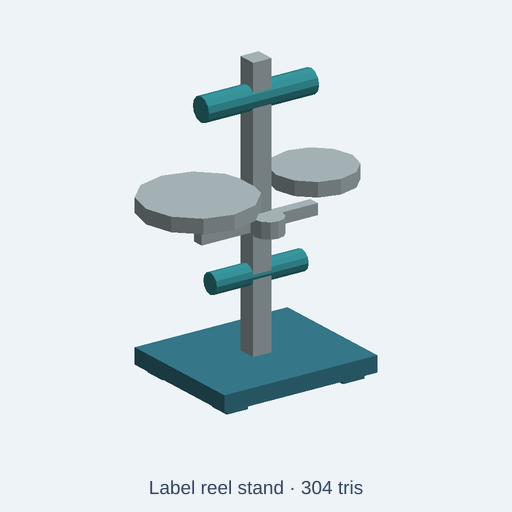
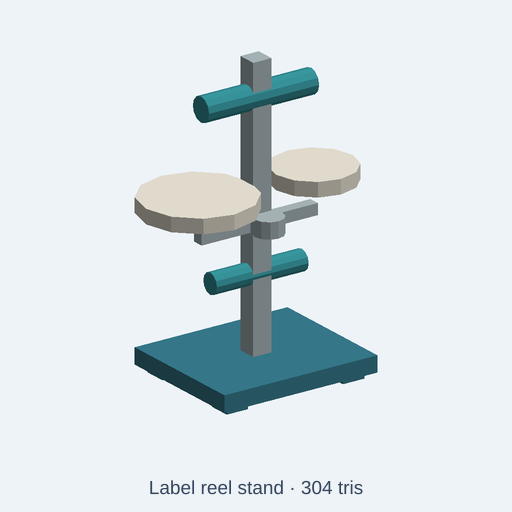
fix(catalog): render the label reel stand's reels as paper label stock
The unwind and rewind reels of the label reel stand carry wound label
web and spent liner. Their part names matched no finish rule, so both
rendered as grey stainless discs. Add a labelStock colour control
(#efe9da, "Paper label stock", the same default as the labelers) and
route both reels to it; sanitaryLine and legacyPlant set it. Rollers,
upright, tension arm and base keep their finishes.

Geometry, part names and the triangle count (304 / 2,200) are
unchanged. The new GLB colour test fails on the old source and passes
after the fix.

Preview audit ledger (beverage-bottling-line, no open issue/PR target):
- label-reel-stand: reels stainless, should be paper -> fixed here.
- slip-sheet-dispenser: vacuum cups render stainless; minor, not fixed.
- shrink-bundle-wrapper: film reel in polymer finish; plausible.
- sleeve-shrink-tunnel: stainless tunnel, painted legs; plausible.
- stretch-wrapper: film, pallet, cases and mast distinct; plausible.

Changed region(s): [[0.25, 0.3125, 0.5312, 0.4688], [0.5312, 0.2812, 0.7188, 0.4062]]

diff --git a/tests/integration/catalog/labelReelStandReelMaterial.test.ts b/tests/integration/catalog/labelReelStandReelMaterial.test.ts
@@ -1,0 +1,61 @@
+// SPDX-License-Identifier: MIT
+// Copyright (c) 2026 Andrii Shylenko and kernelCAD contributors
+
+import { resolve } from 'node:path';
+import { NodeIO } from '@gltf-transform/core';
+import { beforeAll, describe, expect, it } from 'vitest';
+import { buildCatalogAssetWithGlb } from '../../../src/agent/catalog/buildCatalog';
+import { initOcct } from '../../../src/kernel/backends/occt/occtBackend';
+
+const repoRoot = resolve(import.meta.dirname, '../../..');
+const source = 'catalog/kits/beverage-bottling-line/label-reel-stand.kcad.ts';
+
+beforeAll(async () => {
+  await initOcct();
+}, 120_000);
+
+describe('beverage-bottling-line/label-reel-stand materials', () => {
+  it('renders the unwind and rewind reels as paper label stock, not stainless steel', async () => {
+    const { asset, glb } = await buildCatalogAssetWithGlb(repoRoot, source);
+
+    expect(asset.stats.triangles).toBeLessThanOrEqual(asset.triangleBudget);
+    expect(asset.params.filter((param) => param.type === 'color').map((param) => param.name)).toEqual([
+      'stainlessSteel', 'powderCoat', 'foodPolymer', 'labelStock',
+    ]);
+    expect(Object.keys(asset.presets)).toEqual(['sanitaryLine', 'legacyPlant']);
+
+    const document = await new NodeIO().readBinary(glb);
+    const nodes = document.getRoot().listNodes();
+    const colorsFor = (name: string) => {
+      const node = nodes.find((candidate) => candidate.getName() === name);
+      return node?.getMesh()?.listPrimitives().flatMap((primitive) => {
+        const vertexColors = primitive.getAttribute('COLOR_0');
+        if (vertexColors !== null) {
+          return Array.from({ length: vertexColors.getCount() }, (_, index) => {
+            const color = vertexColors.getElement(index, []);
+            return color.slice(0, 3).map((channel) =>
+              channel <= 0.0031308 ? 12.92 * channel : 1.055 * channel ** (1 / 2.4) - 0.055,
+            );
+          });
+        }
+        const material = primitive.getMaterial();
+        return material === null ? [] : [material.getBaseColorFactor().slice(0, 3)];
+      }) ?? [];
+    };
+    const matches = (hex: string) => {
+      const expected = [1, 3, 5].map((shift) => parseInt(hex.slice(shift, shift + 2), 16) / 255);
+      return (color: number[]) => expected.every((channel, index) =>
+        Math.abs(channel - color[index]!) < 0.015,
+      );
+    };
+
+    for (const roll of ['unwind-reel', 'rewind-reel']) {
+      const colors = colorsFor(roll);
+      expect(colors.length).toBeGreaterThan(0);
+      expect(colors.every(matches('#efe9da')), `${roll} should be paper label stock`).toBe(true);
+    }
+    const roller = colorsFor('top-web-roller');
+    expect(roller.length).toBeGreaterThan(0);
+    expect(roller.every(matches('#3999a1')), 'web roller should stay food-grade polymer').toBe(true);
+  }, 120_000);
+});

diff --git a/catalog/kits/beverage-bottling-line/label-reel-stand.kcad.ts b/catalog/kits/beverage-bottling-line/label-reel-stand.kcad.ts
@@ -5,7 +5,7 @@ meta({
   name: "label-reel-stand",
   license: 'CC0-1.0',
   title: "Label reel stand",
-  description: "Freestanding unwind and rewind reels with a tensioning roller and web guide. Knobs: overall scale and color controls for stainless steel, powder-coated steel, and food-grade polymer.",
+  description: "Freestanding unwind and rewind reels with a tensioning roller and web guide. Knobs: overall scale and color controls for stainless steel, powder-coated steel, food-grade polymer, and paper label stock.",
   tags: ['beverage bottling', 'packaging line', 'food manufacturing', 'low poly', 'CC0'],
   kit: 'beverage-bottling-line',
   category: 'prop',
@@ -18,17 +18,20 @@ const scale = param('scale', 1, { label: 'Overall scale', min: 0.65, max: 1.3, s
 const stainlessSteel = param('stainlessSteel', '#aebdc1', { label: 'Stainless steel' });
 const powderCoat = param('powderCoat', '#397e91', { label: 'Powder-coated steel' });
 const foodPolymer = param('foodPolymer', '#3999a1', { label: 'Food-grade polymer' });
+const labelStock = param('labelStock', '#efe9da', { label: 'Paper label stock' });
 
 presets({
   sanitaryLine: {
     stainlessSteel: '#d2dfe1',
     powderCoat: '#4b95a4',
     foodPolymer: '#2c828c',
+    labelStock: '#f6f2e8',
   },
   legacyPlant: {
     stainlessSteel: '#858f91',
     powderCoat: '#315b70',
     foodPolymer: '#286c75',
+    labelStock: '#ddd4bd',
   },
 });
 const boxPart = (x:number,y:number,z:number,w:number,d:number,h:number) => box(w,d,h,true).translate(x,y,z+h/2).scale(scale);
@@ -38,6 +41,8 @@ const xCylinderPart = (x:number,y:number,z:number,length:number,r:number,n=10) =
 const p = assembly("label-reel-stand");
 const finishPart = (name: string, shape: ReturnType<typeof boxPart>) => {
   const component = name.toLowerCase();
+  // The unwind and rewind reels carry wound label web and spent liner, not steel discs.
+  if (/reel$/i.test(component)) return shape.color(labelStock);
   if (/belt|guide|film|web|label|pad|seal|grip|cap|bottle|liner|tray|hose|cleat|divider|wheel|wrap|tape|suction|sleeve/i.test(component)) return shape.color(foodPolymer);
   if (/base|leg|foot|frame|support|stand|control|housing|cabinet|motor|drive|beam|panel|hood|skid|mount|platform|guard|rail|post|lift|jacket/i.test(component)) return shape.color(powderCoat);
   return shape.color(stainlessSteel);
